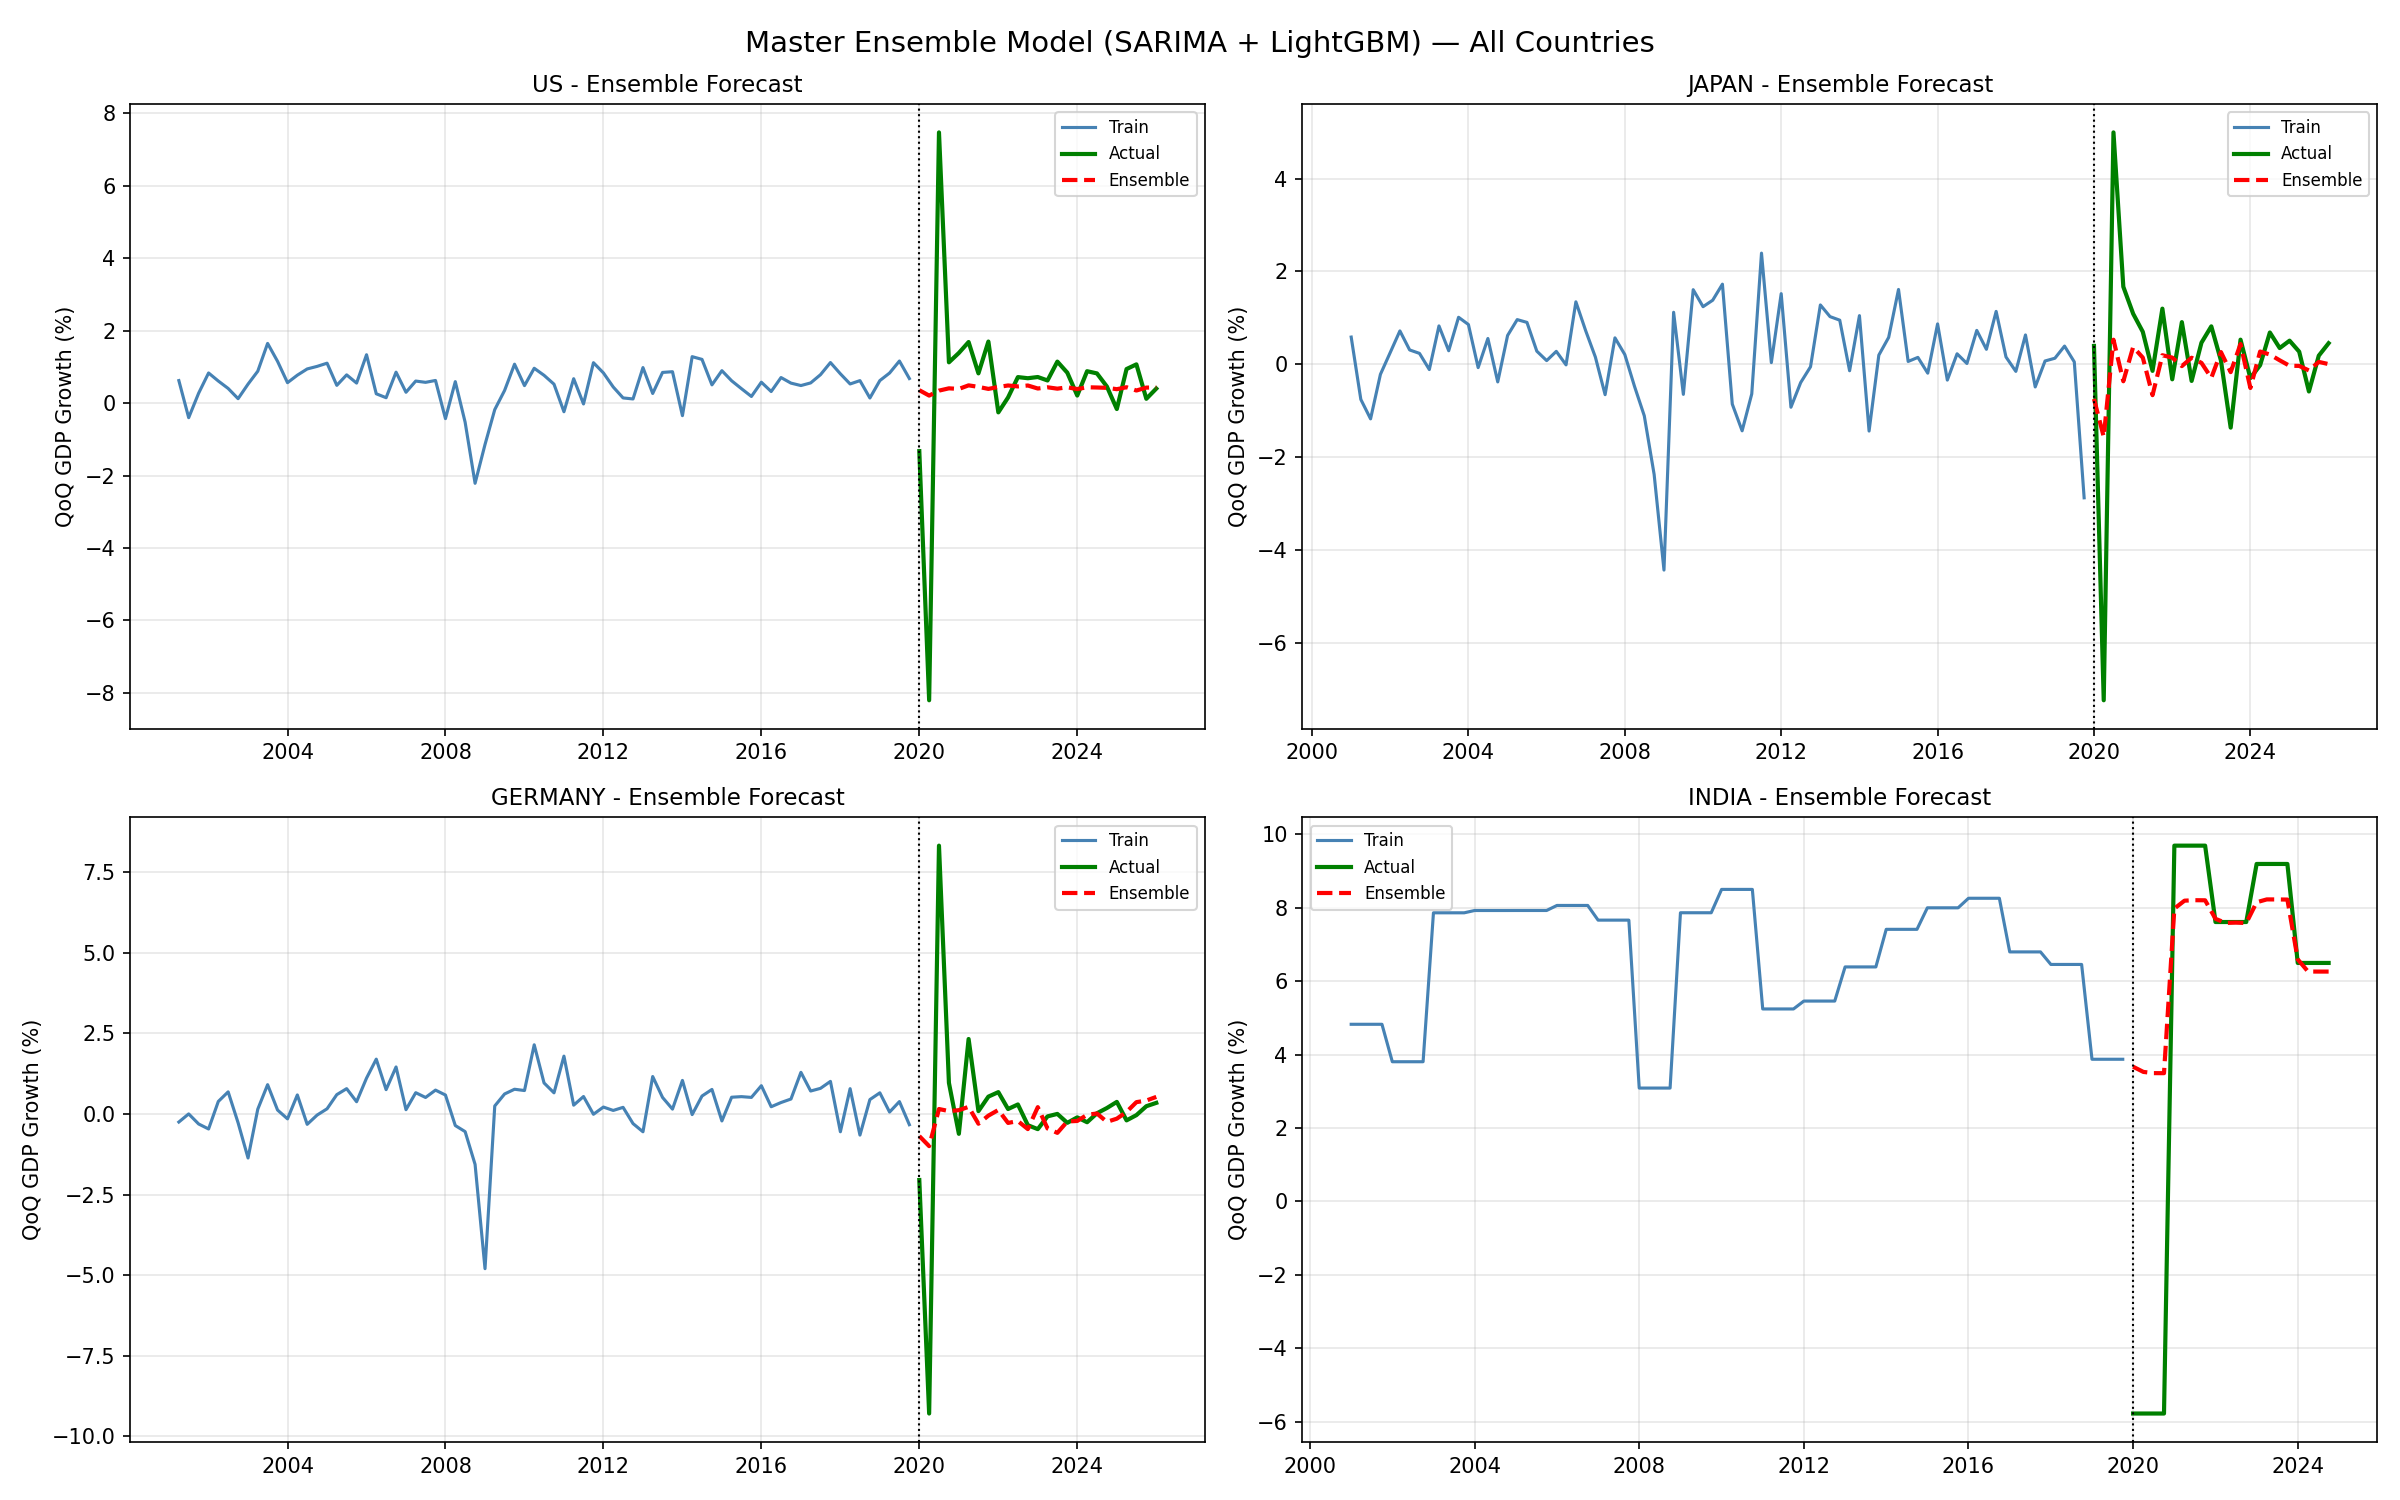
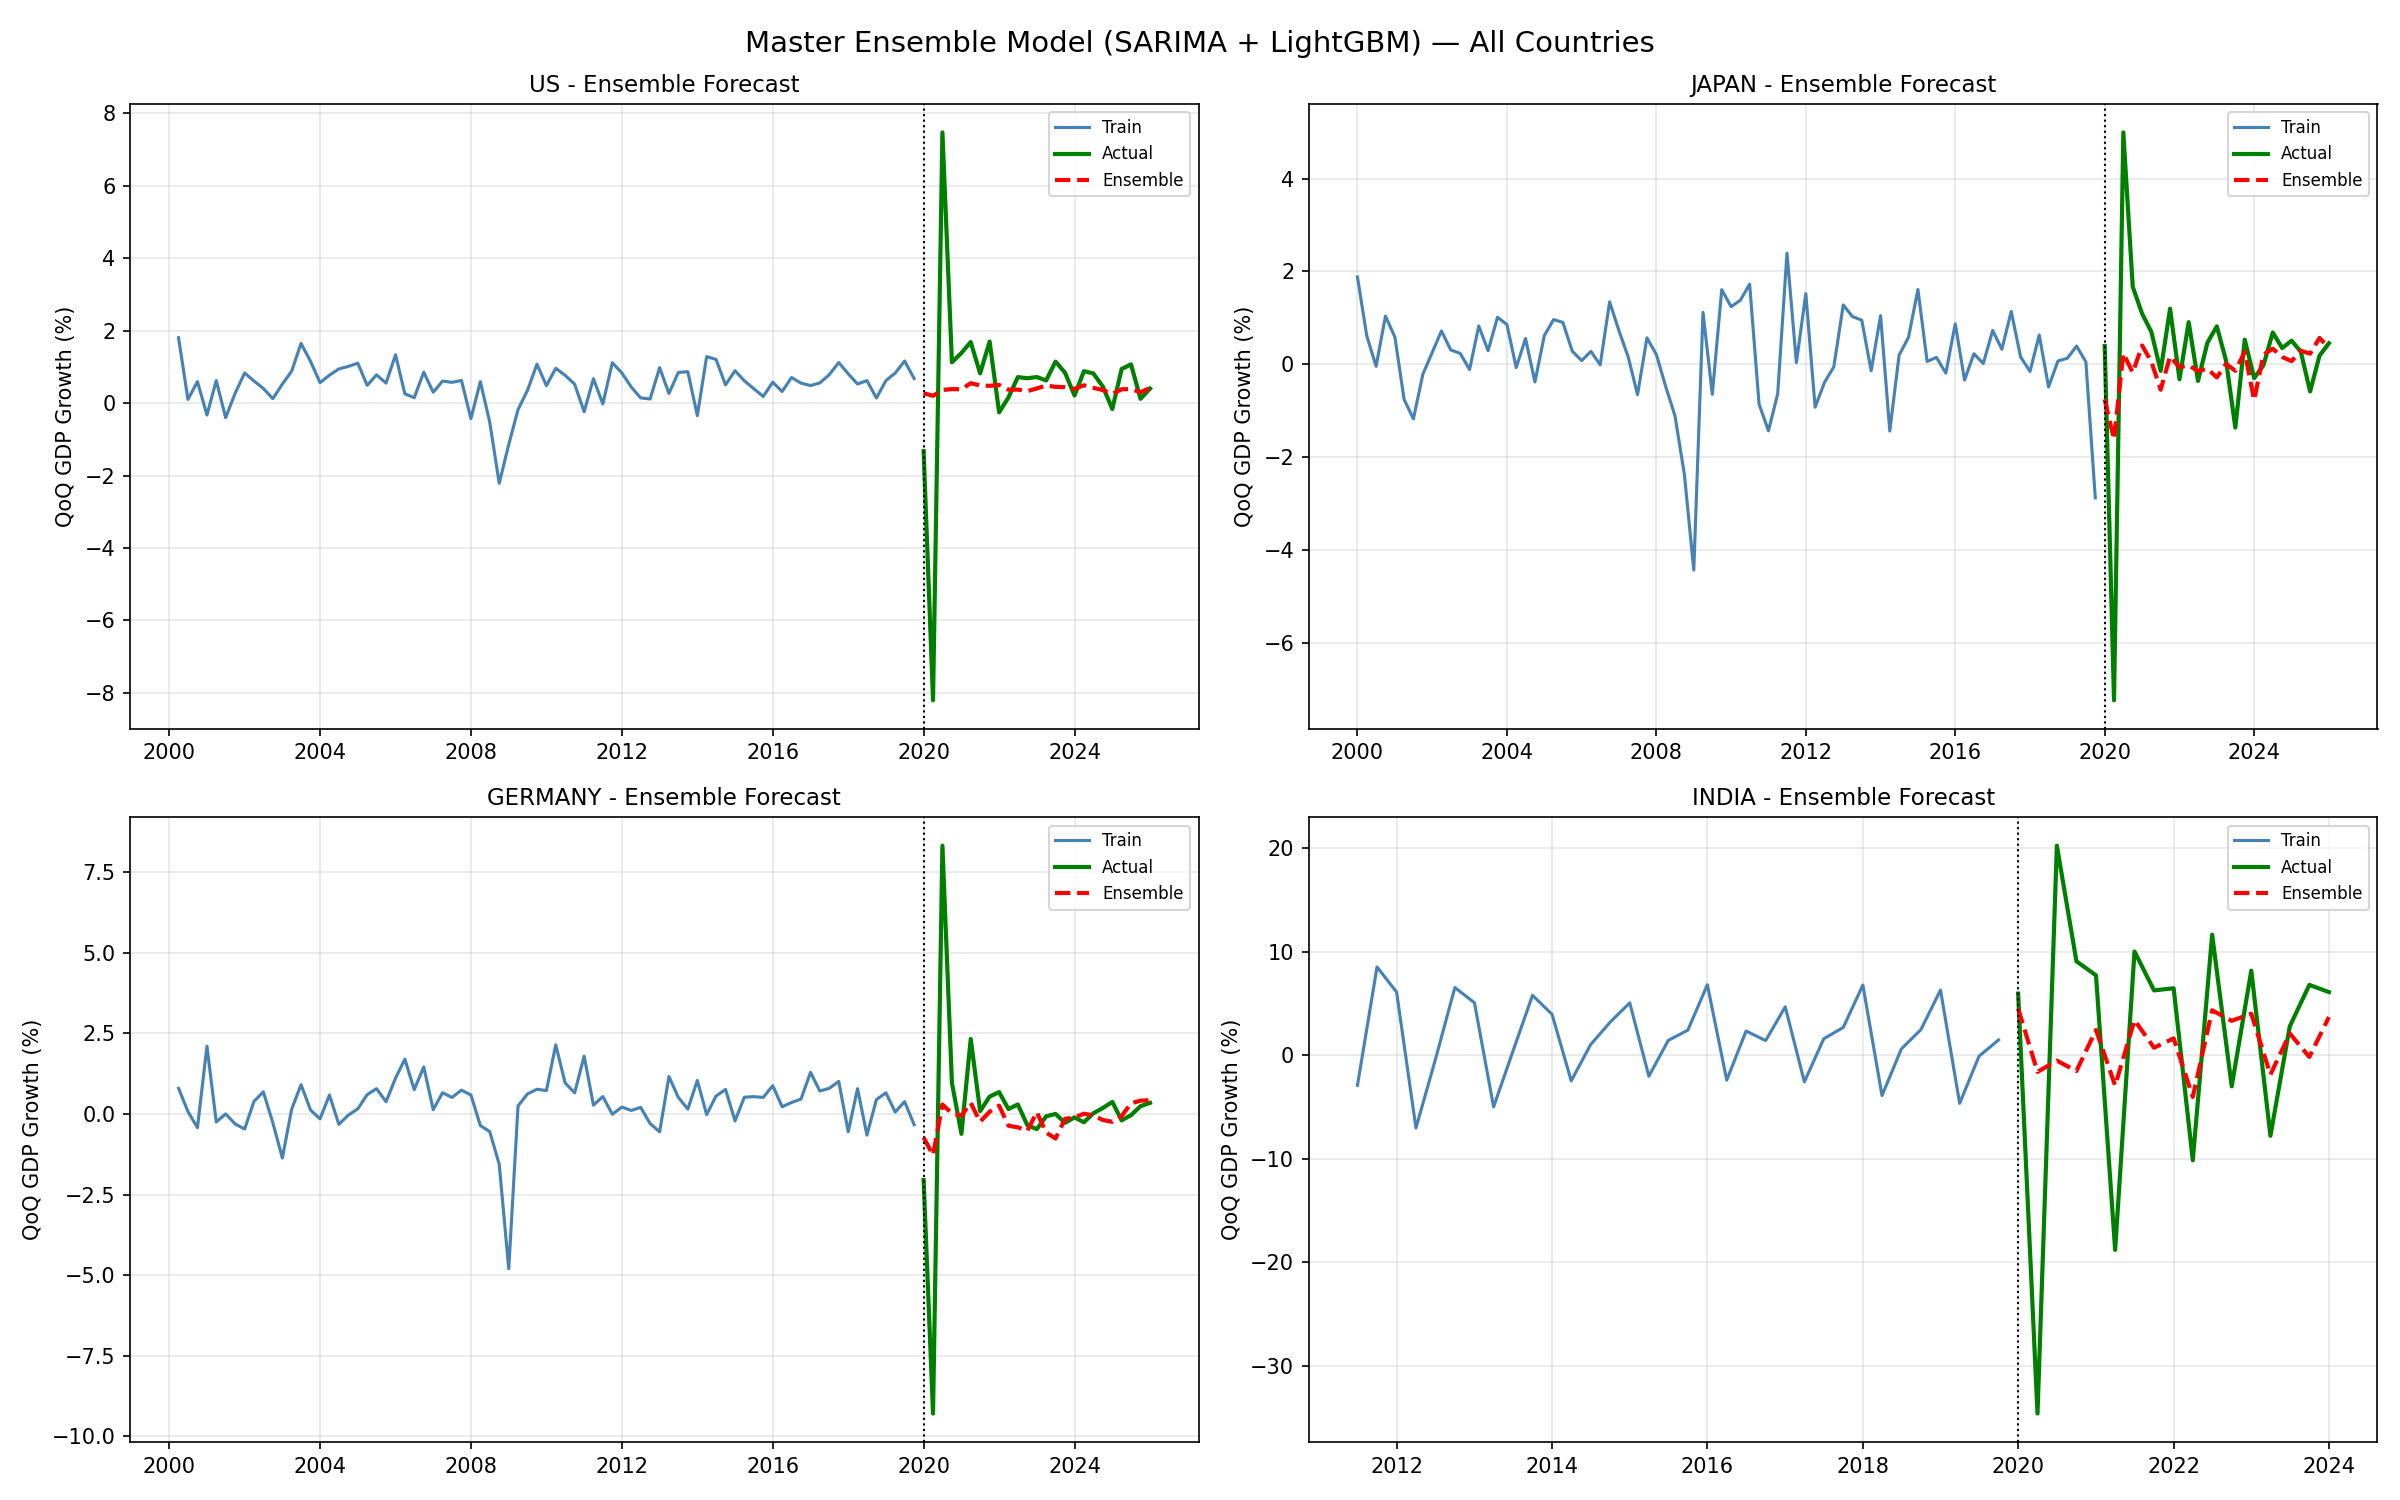
docs: update README validation plots and performance table with latest 2026 data

diff --git a/README.md b/README.md
@@ -21,9 +21,9 @@ Our rigorous chronological hold-out validation ensures zero future-data leakage.
 
 | Economy | Acc | RMSE | MAE | Ensemble Weighting | Key Optuna Params |
 | :--- | :---: | :---: | :---: | :--- | :--- |
-| 🇺🇸 **US** | **87.5%** | 2.30 | 1.12 | LGBM 51% + SARIMA 49% | `lr: 0.03`, `depth: 3`, `leaves: 8` |
-| 🇯🇵 **Japan** | 75.0% | 1.61 | 0.96 | LGBM 56% + SARIMA 44% | `lr: 0.09`, `depth: 3`, `leaves: 12` |
-| 🇩🇪 **Germany** | 70.8% | 2.41 | 1.12 | LGBM 53% + SARIMA 47% | `lr: 0.05`, `depth: 4`, `leaves: 17` |
+| 🇺🇸 **US** | **87.5%** | 2.29 | 1.11 | LGBM 51% + SARIMA 49% | `lr: 0.03`, `depth: 3`, `leaves: 8` |
+| 🇯🇵 **Japan** | 75.0% | 1.63 | 0.95 | LGBM 56% + SARIMA 44% | `lr: 0.09`, `depth: 3`, `leaves: 12` |
+| 🇩🇪 **Germany** | 70.8% | 2.36 | 1.10 | LGBM 54% + SARIMA 46% | `lr: 0.05`, `depth: 4`, `leaves: 17` |
 | 🇮🇳 **India** | **84.2%** | 4.25 | 2.41 | LGBM 100% (no SARIMA) | `lr: 0.03`, `depth: 3` (Manual), `leaves: 8` |
 
 > *Directional Accuracy = model's ability to correctly predict GDP expansion vs contraction relative to the prior quarter. Deep trees were manually restricted for India due to low variance in annual-to-quarterly forward-filled data.*